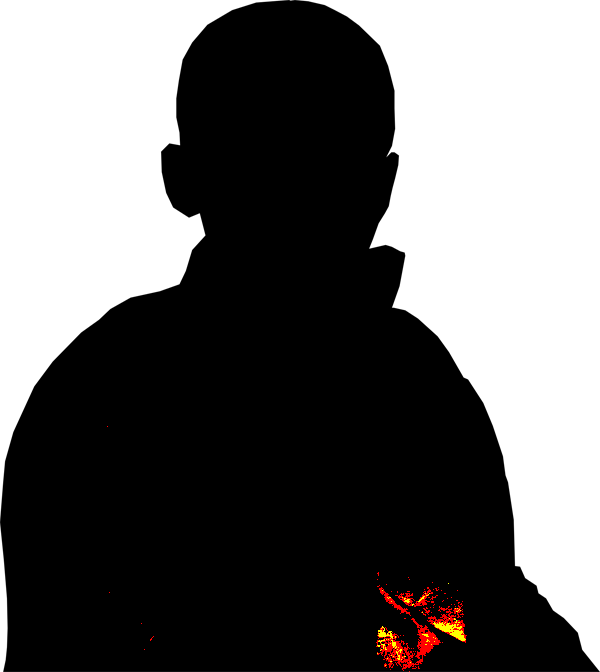
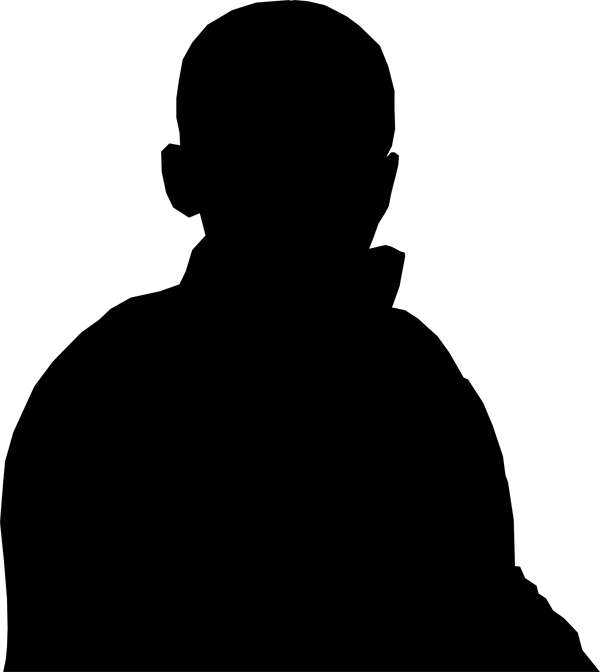
upadte: generating shadow script updated

Changed region(s): [[0.63, 0.875, 0.78, 1.0]]

diff --git a/shadow-generator/src/utils/image.ts b/shadow-generator/src/utils/image.ts
@@ -20,21 +20,9 @@ export function extractMask(image: HTMLImageElement): HTMLCanvasElement {
 
   for (let i = 0; i < d.length; i += 4) {
     const a = d[i + 3];
-    if (d[i] > 230) {
-      d[i] = 255;
-    } else {
-      d[i] = 0;
-    }
-    if (d[i + 1] > 230) {
-      d[i + 1] = 255;
-    } else {
-      d[i + 1] = 0;
-    }
-    if (d[i + 2] > 230) {
-      d[i + 2] = 255;
-    } else {
-      d[i + 2] = 0;
-    }
+    d[i] = 0;
+    d[i + 1] = 0;
+    d[i + 2] = 0;
     d[i + 3] = a;
   }
 
